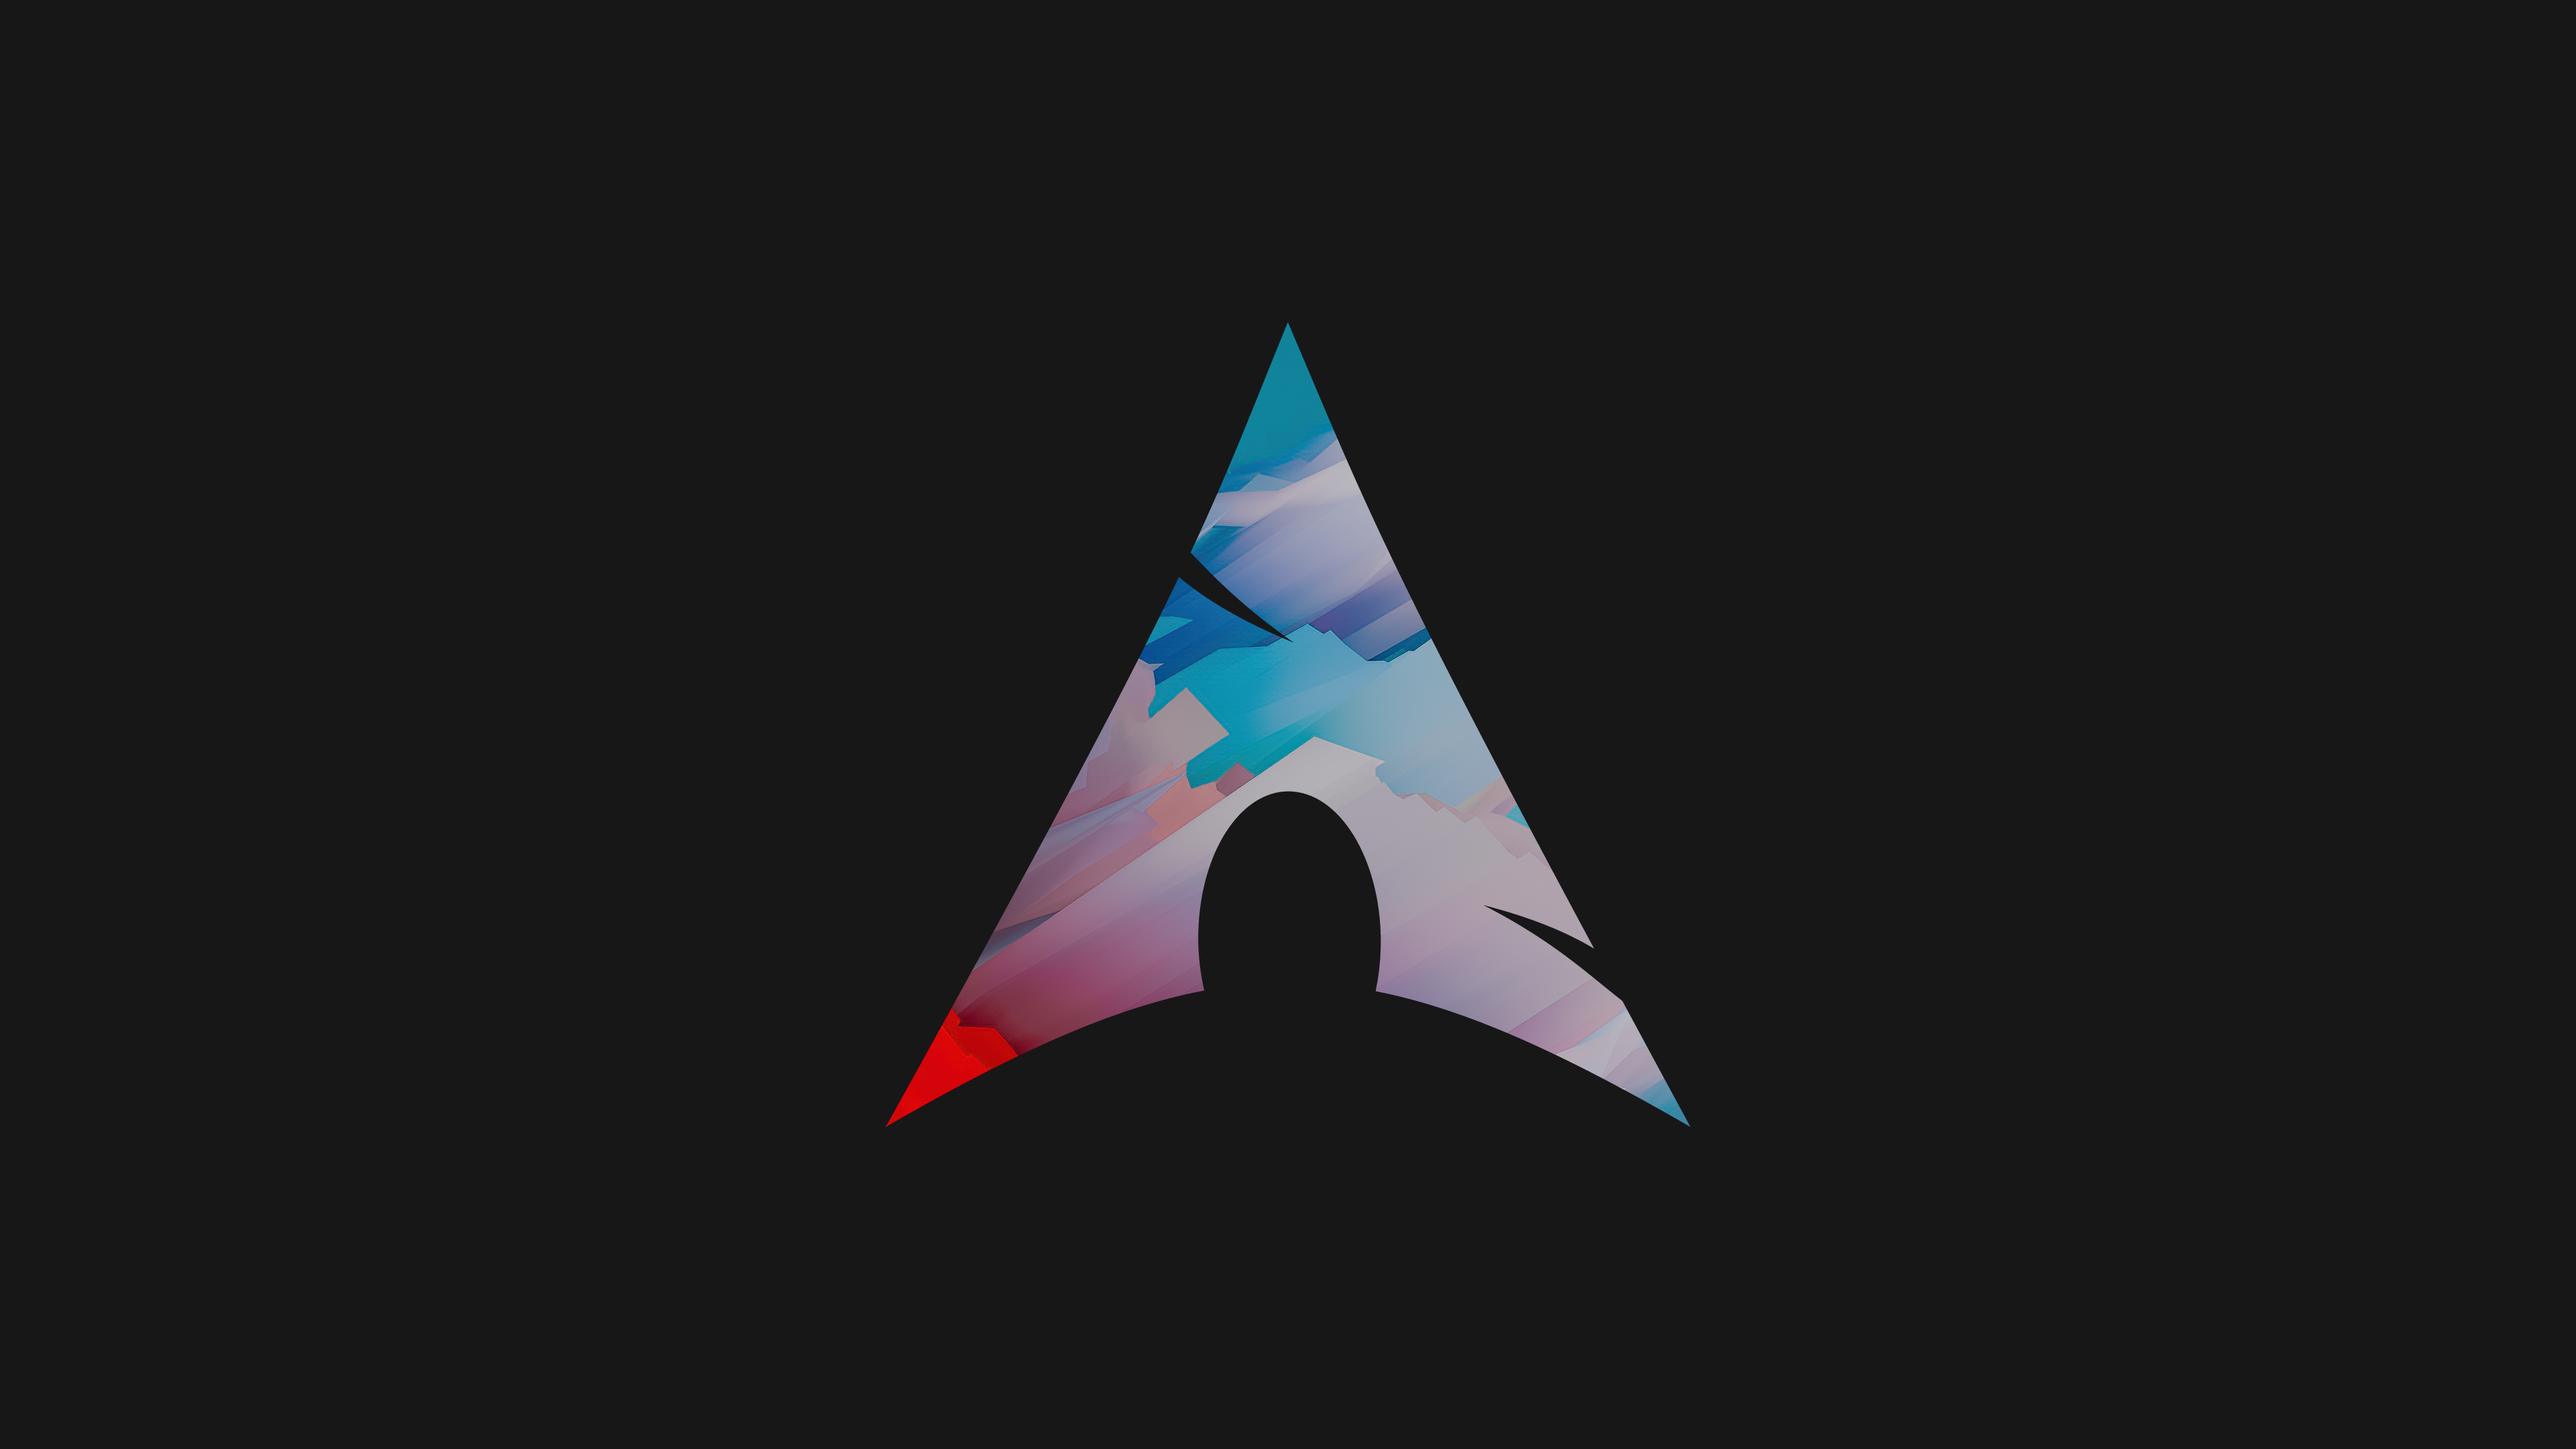
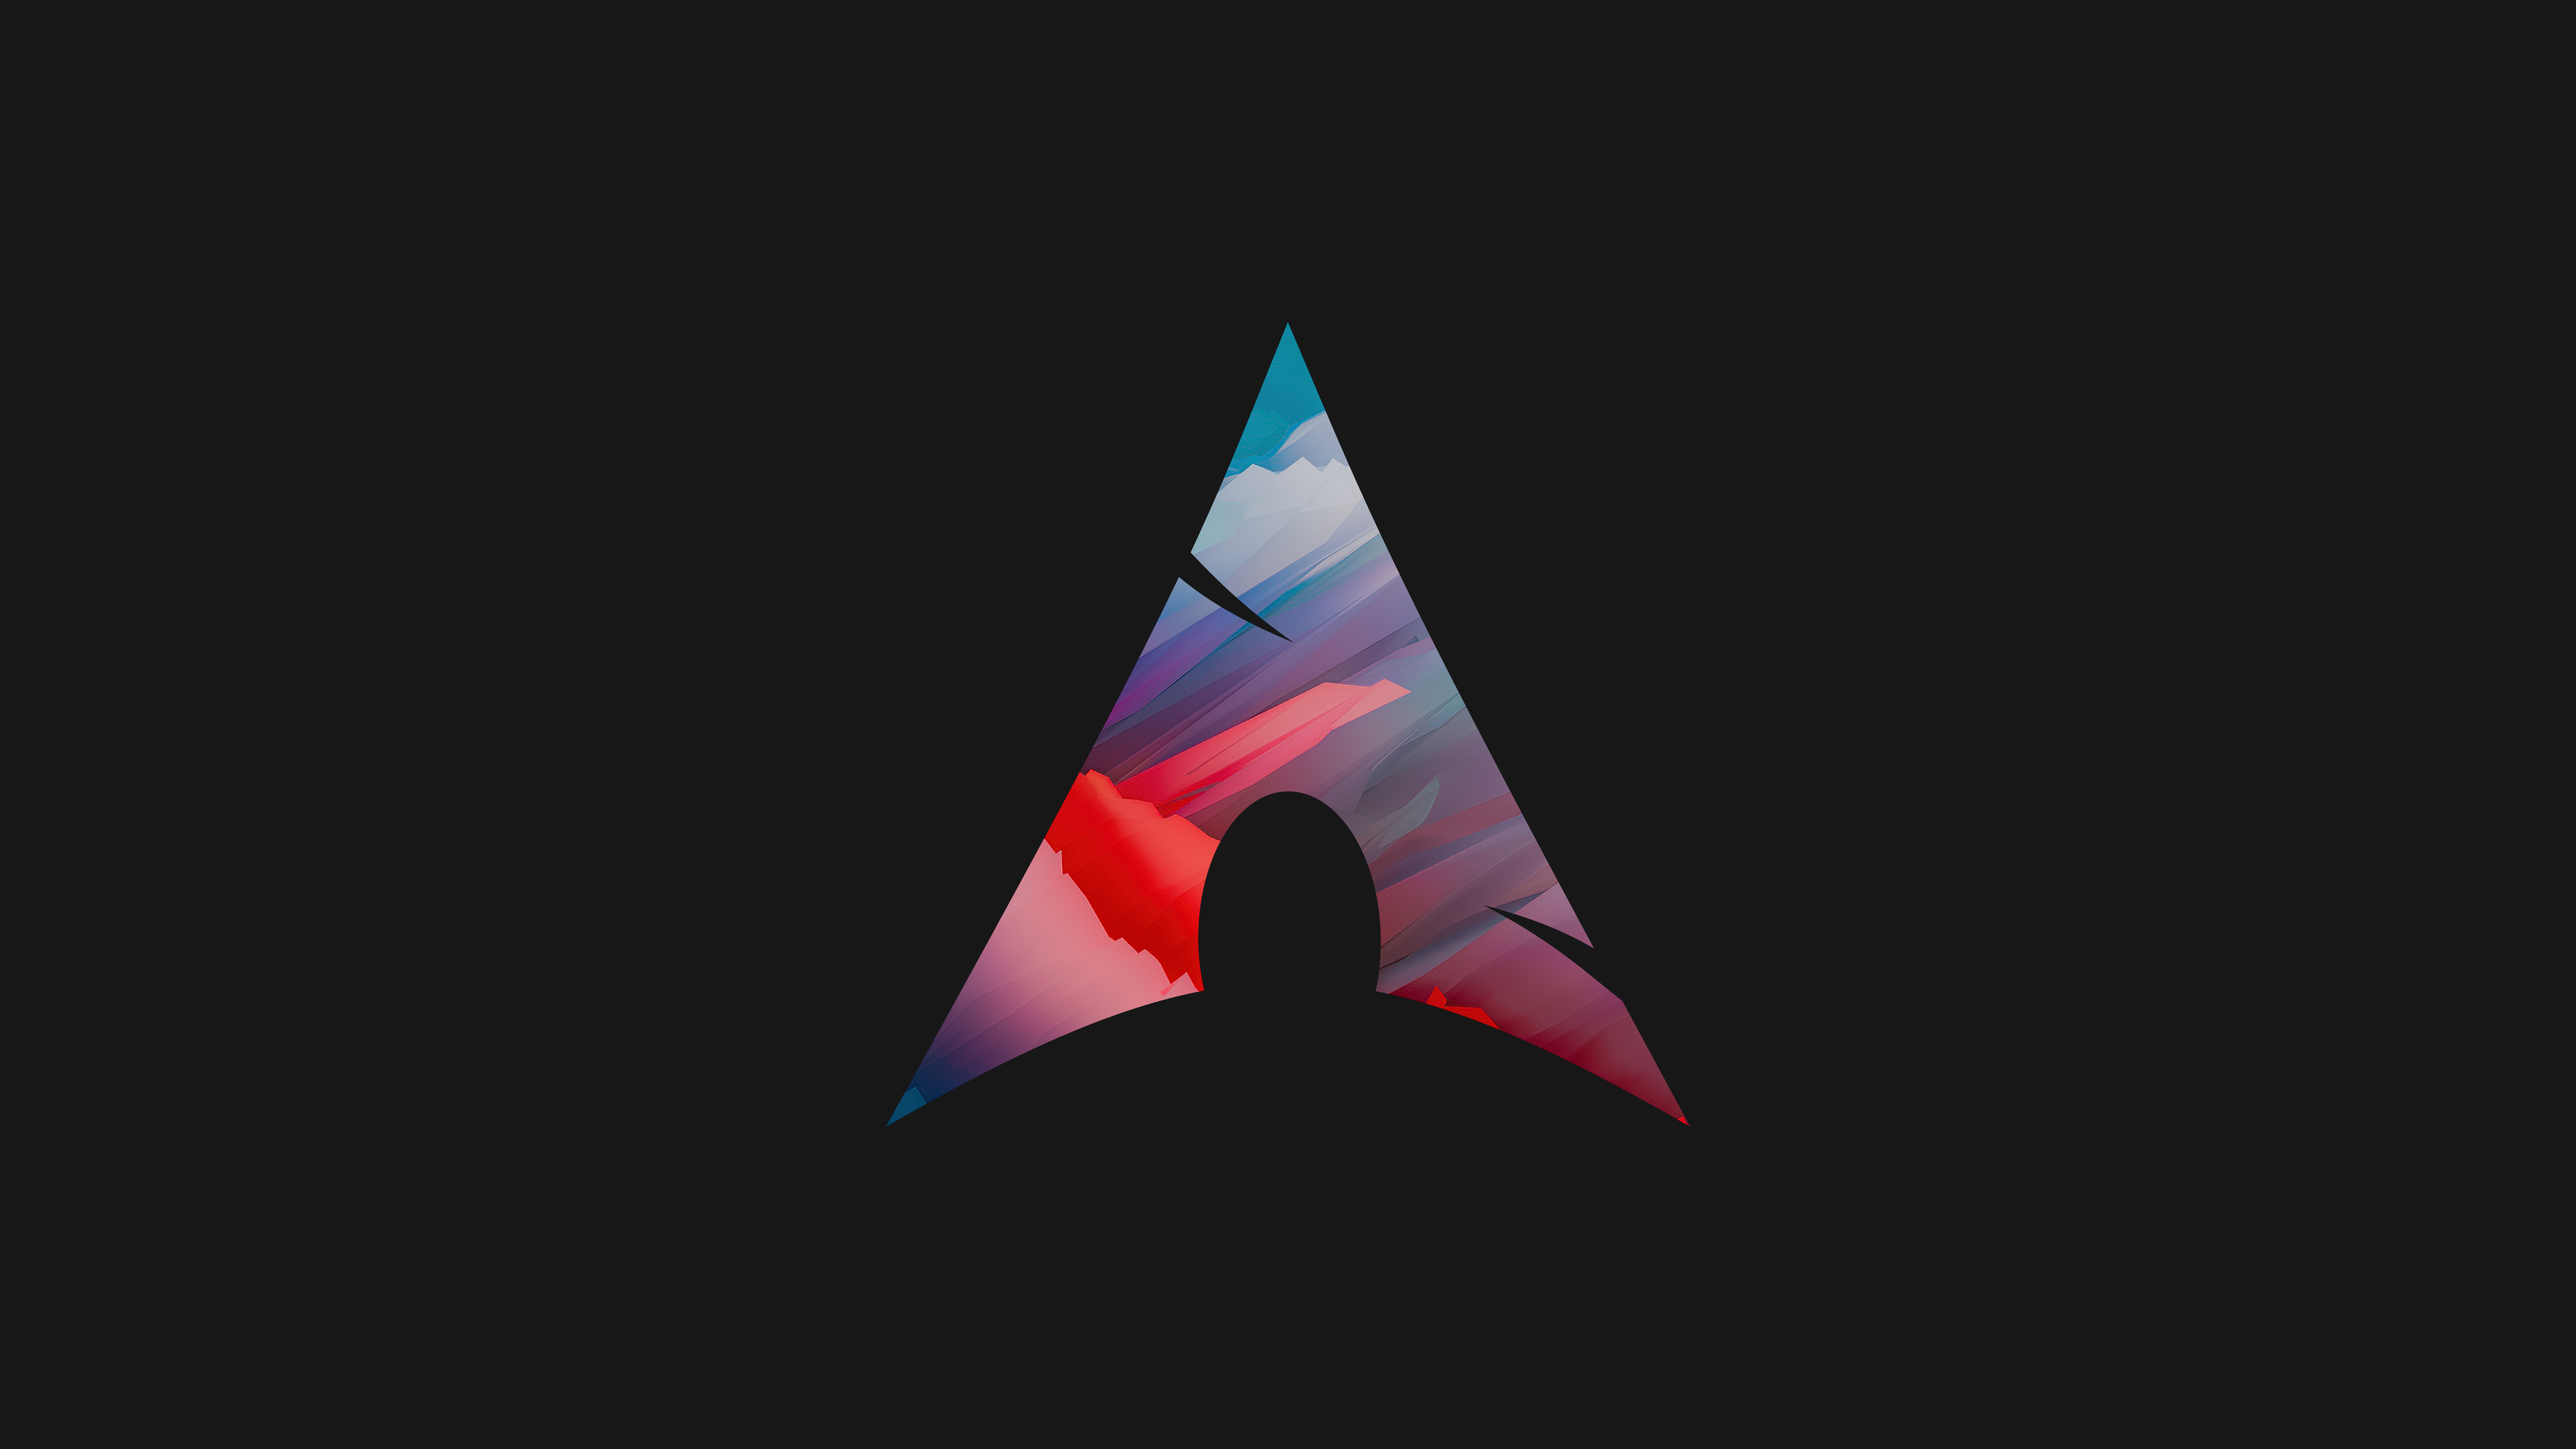
Update Wallpaper #5

Changed region(s): [[0.3438, 0.2792, 0.6562, 0.7755]]

diff --git a/img/README.md b/img/README.md
@@ -43,7 +43,7 @@ Someone posted a [Gentoo wallpaper on reddit](https://www.reddit.com/r/linuxmast
 
 \- [Source Image](https://www.reddit.com/r/wallpapers/comments/tkhpx9/nautical_3840x2160), by James Sypniewski
 
-`arch-papers source_image out.png -s 3840,2160 -t 515,-50`
+`arch-papers source_image out.png -s 3840,2160 -t 1240,-80`
 
 ---
 
